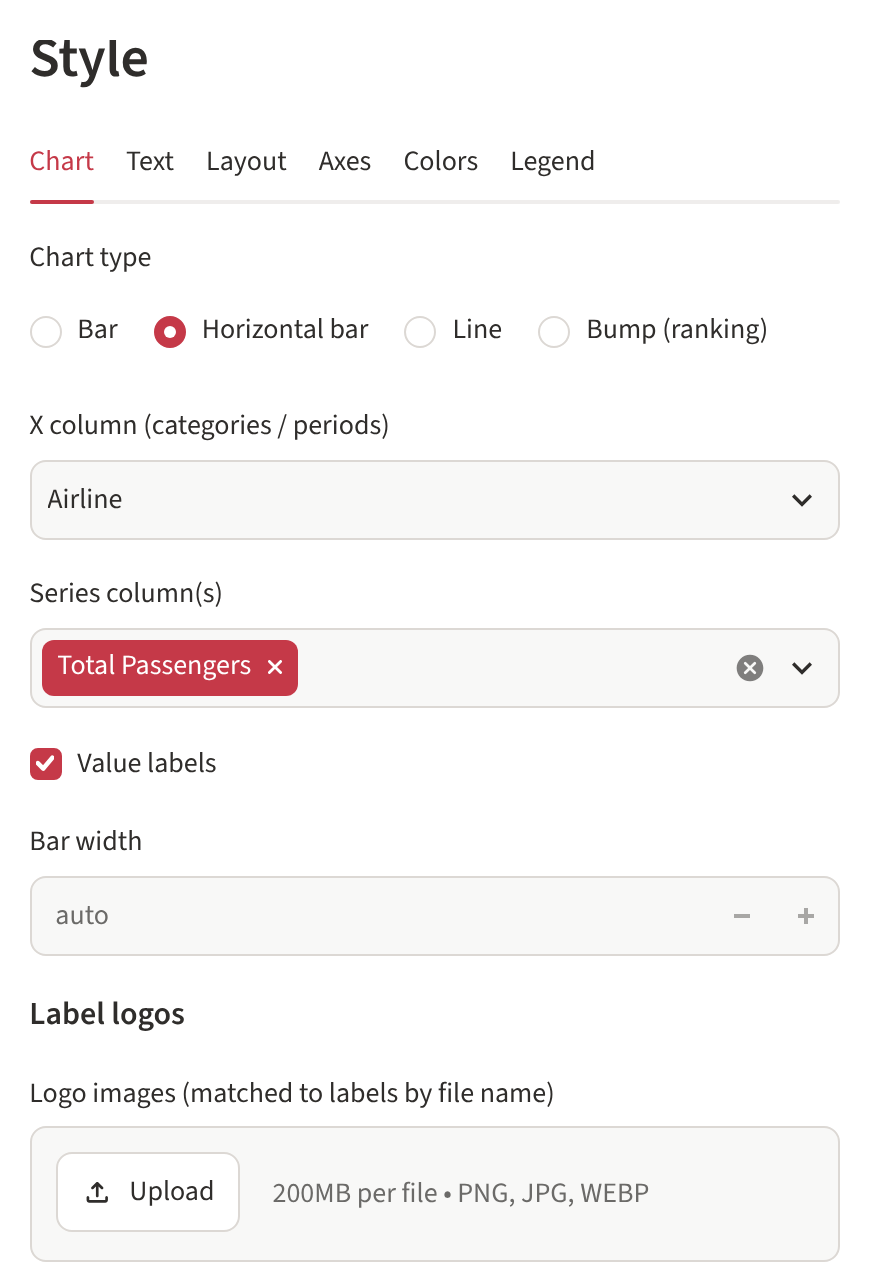
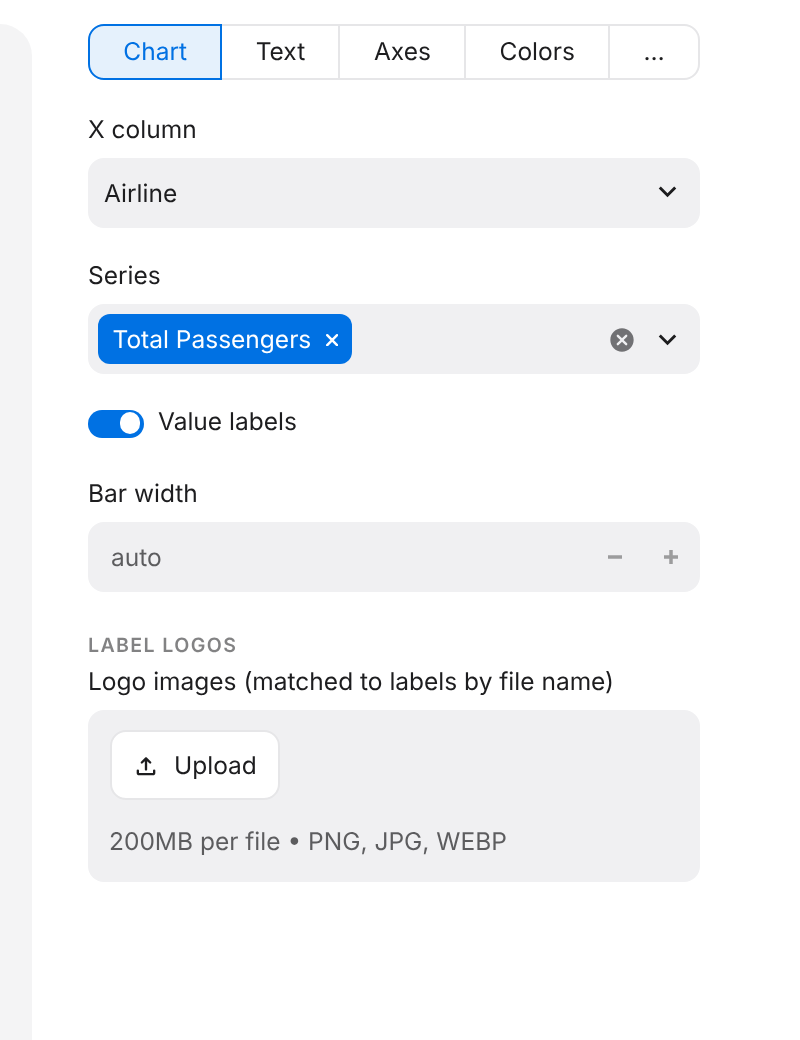
Update docs for the hand-held Chart Studio: guides, README, CLAUDE.md, screenshots
Claude-Session: https://claude.ai/code/session_01QkR6mK5n6DWnC9PeJK8sia

diff --git a/docs/guides/03-tweaks-and-fixes.md b/docs/guides/03-tweaks-and-fixes.md
@@ -9,30 +9,40 @@ and watch the chart.
 | I want to… | Where | What to do |
 |---|---|---|
 | Break the title onto two lines | Text | Press **Enter** inside **Title** |
-| Thin out crowded x-axis labels | Axes | Set **Most labels to show**, for example `5`, or set an **Label every…** |
+| Thin out crowded x-axis labels | Axes | Set **Most labels to show**, for example `5`, or set **Label every…** |
 | Label every year | Axes | **Label every…** `1` |
-| Show months as *Jan 24* | Axes | **Date style** → Custom, code `%b %y` (needs a date column) |
+| Show months as *Jan 24* | Axes | **Date style** → Custom, code `%b %y`. This needs a date column. The list shows what each style prints before you pick it |
 | Show years only on a monthly chart | Axes | **Date style** `Year` together with **Label every… years (line)** `1` |
 | Add a small tick between labels | Axes | **Small ticks between labels** `1` (for example, mid-year) |
 | Write `'21` instead of `2021` | Chart | Tick **Compact years** |
 | Tilt long x labels | Chart | **X label rotation**, for example `45` |
-| Cut or wrap long category names | Layout | **Max label width (chars)** plus **Long labels**: `wrap` or `truncate` |
-| Show values as `12%` | Axes | **Value format** `Percent`. The data must be fractions, so 0.12 shows as 12% |
-| Show values as `1,234.5` | Axes | **Value format** `Custom` with format string `{x:,.1f}` |
+| Cut or wrap long category names | … (Layout) | **Wrap labels after (characters)** plus **When a label is too long**: wrap or cut short |
+| Show values as `12%` | Axes | **Number style** → Percent. The data must be fractions, so 0.12 shows as 12% |
+| Show values as `1,234.5` | Axes | **Number style** → Custom, with `{x:,.1f}`. A line below shows the result, or says what's wrong |
 | Start the y-axis at zero, or fix its range | Axes | **Y min** and **Y max**. Fill in both, or neither |
 | Print numbers on the bars or points | Chart | Tick **Value labels** |
-| Hide the y-axis numbers and gridlines | Layout | Untick **Show y gridlines + labels**. This works well together with value labels |
-| Put y labels on the left | Layout | **Y-axis side** `left` |
-| Change all colours at once | Colors | **Theme** |
-| Give one series a fixed colour | Colors | Change that series from `auto` to a role or to **custom** |
+| Hide the y-axis numbers and gridlines | … (Layout) | Turn off **Show gridlines and y numbers**. This works well together with value labels |
+| Put y labels on the left | … (Layout) | **Y-axis side** `left` |
+| Change all colours at once | Colors | Click a **Theme** card. Each card is a small version of your own chart |
+| Give one series a fixed colour | Colors | Change that series from *Automatic* to a colour. The swatches show the theme's five colours |
 | Make one series fainter | Colors | Lower its **Opacity** |
-| Change the legend layout | Legend | **Legend columns** |
-| Remove or replace the footer logo | Layout | **Footer logo**: `Off`, or `Custom` and upload an image |
-| Remove the whole footer | Layout | Untick **Footer (rule, caption, logo)** |
-| Add space after the last data point | Layout | **Extra room on the right**, for example `0.05` for 5% of the data range |
+| Change the legend layout | … | **Legend columns** |
+| Remove or replace the footer logo | … (Layout) | **Footer logo**: `Off`, or `Custom` and upload an image |
+| Remove the whole footer | … (Layout) | Turn off **Footer (line, source caption, logo)** |
+| Add space after the last data point | … (Layout) | **Extra room on the right**, for example `0.05` for 5% of the data range |
 
 Any number box that shows **auto** works out a good value on its own. To go
 back to automatic, clear the box.
+
+<img src="images/studio_axes_tab.png" width="360" alt="Axes section with date styles listed with their results and a mini axis preview">
+
+The **Axes** section lists each date style with what it prints for your dates,
+and a small preview axis shows the labels your chart will get.
+
+**Why is there no Date style?** A date style only applies to a real date column.
+If your x values are names, or whole numbers such as the year `2024`, they print
+as they are, so the app doesn't offer one. To format dates, use a column of
+dates (write them as `2024-03-01` in a CSV file).
 
 ## Themes
 
@@ -51,13 +61,13 @@ The first series always gets the theme's **primary** colour, the second gets
 | What you see | Why | Fix |
 |---|---|---|
 | A red message on a reshape step | That step can't run. Usually a column it uses has disappeared, for example after a Group or Pivot. | Read the message. A column marked **⚠ (missing)** needs a new choice. The steps after it are skipped until you fix it. |
-| Strange totals such as `6066` for Year | A **Group** step added up the `Year` column too | In that step, choose **Value columns** explicitly |
+| Strange totals such as `6066` for Year | A **Group** step added up the `Year` column too | In that step, choose **Columns to combine** explicitly |
 | Bars or lines stacked on top of each other, wrong-looking chart | There are still several rows per x value | Add a **Group and total up** step, or a **Pivot** for one column per group |
 | Dates show as plain text labels | The column isn't stored as a date | In CSV files, write dates as `2024-03-01`. In Excel, format the cells as dates. |
 | "Series column(s) must be numeric" | A number column contains text, such as `n/a` or `1,234` | Clean the file, or filter those rows out |
 | "There is no data to plot" | A filter removed every row | Check the filter's spelling and capital letters. `=` must match exactly. |
 | The legend is missing | There's only one series. This is on purpose: the subtitle names it. | Add more series, or describe the one series in the subtitle |
-| Long names are cut off | The label is too long for the space | Shorten it with **Max label width**, or on bump charts use **Label text** with `\n` |
+| Long names are cut off | The label is too long for the space | Shorten it with **Wrap labels after (characters)**, or on bump charts use **Label text** with `\n` |
 | MMA **Fetch** fails | The token is missing, or the series number is wrong | Set `MMA_API_TOKEN` or put the token in `TOKEN.txt`, then check the series number |
 | The app is slow | The data is very large | Filter or group it early, near the top of the steps |
 

diff --git a/docs/guides/01-getting-started.md b/docs/guides/01-getting-started.md
@@ -39,37 +39,49 @@ To close the app, go back to the terminal and press `Ctrl + C`.
 
 ![Chart Studio with a finished chart](images/studio_overview.png)
 
-The screen has three panels:
+The screen has a toolbar and three panels:
 
-| Panel | What it's for |
+| Part | What it's for |
 |---|---|
-| **Data** (left) | Load your data, then tidy it with **reshape steps**. A table at the bottom shows the result. |
+| **Toolbar** (top) | Pick the **chart type** (Bar, H-bar, Line, Bump), and **Export PNG** or **Data .xlsx**. |
+| **Sidebar** (left) | A **progress checklist** that shows what to do next, then your data and the **reshape steps**. A table at the bottom shows the result. |
 | **Preview** (centre) | The chart, redrawn about half a second after every change. **What you see is exactly what you download.** |
-| **Style** (right) | Six tabs for everything else: **Chart** (type and columns), **Text**, **Layout**, **Axes**, **Colors**, **Legend**. |
+| **Inspector** (right) | One section at a time: **Chart** (columns and options), **Text**, **Axes**, **Colors**, and **…** (layout and legend). |
+
+**The checklist tells you what's next.** It lists *Data → Chart → Titles →
+Look → Export*. A green tick means a step is done, the blue number is your
+next step ("Next: add a title so readers know what they see"), and *Look* is
+optional. When everything required is done, *Export* says **Ready to export**.
+
+**Settings show you the result before you choose.** Where a setting needs a
+format (a date style, a number style), the options are listed with what they
+print from *your* data, so you pick by looking, not by remembering codes.
+Hover the **?** next to a setting for a short explanation.
 
 ## Step 4: Load the data
 
-1. Under **Source**, choose **Excel / CSV file**.
+1. Under **Source**, choose **File**.
 2. Drag `examples/data/airlines_sample.csv` into the upload box.
 
-The panel shows **42 rows × 4 columns loaded**. Each row is one airline in one
+The sidebar shows **42 rows × 4 cols** under the file name. Each row is one airline in one
 year, so Emirates appears three times: 2021, 2022 and 2023.
 
 > **Using MMA data instead?** Choose **MMA series**, type the series number and
-> click **Fetch**. The app uses the same token as your Python scripts (the
+> click **Fetch**. The app then shows the series name, how often it is
+> published and its unit, so you can check you got the right one. It uses the same token as your Python scripts (the
 > `MMA_API_TOKEN` setting or a `TOKEN.txt` file), and it never shows the token.
 
 ## Step 5: Shape the data with steps
 
 We want one bar per airline: its total international passengers, biggest
-first, top 10 only. That takes four steps. For each one, pick it in
-**Add step**, click **＋ Add**, then fill it in:
+first, top 10 only. That takes four steps. For each one, click
+**＋ Add step**, pick the step, then fill it in:
 
 | # | Step | Fill in | What it does |
 |---|---|---|---|
-| 1 | **Filter rows** | Column `Type`, Op `=`, Value `International` | Keeps only international flights |
+| 1 | **Filter rows** | Column `Type`, Condition `=`, Value `International` | Keeps only international flights |
 | 2 | **Group and total up** | Group by `Airline`, Combine values using `sum`, Columns to combine `Total Passengers` | Adds the three years together, giving one row per airline |
-| 3 | **Sort** | Column `Total Passengers`, leave **Ascending** unticked | Puts the biggest airline first |
+| 3 | **Sort** | Column `Total Passengers`, leave **Smallest first** off | Puts the biggest airline first |
 | 4 | **Keep the top rows** | How many rows to keep `10` | Keeps the first 10 rows |
 
 <img src="images/studio_data_panel.png" width="360" alt="The four reshape steps filled in">
@@ -77,24 +89,24 @@ first, top 10 only. That takes four steps. For each one, pick it in
 Under each step, a small note such as **→ 12 rows** tells you how many rows
 are left after it. The table at the bottom shows the final result.
 
-> **Tip:** In step 2, always choose **Value columns**. If you leave it empty,
+> **Tip:** In step 2, always choose **Columns to combine**. If you leave it empty,
 > the app adds up *every* number column, including `Year`, which gives you
 > nonsense values like 6066.
 
 ## Step 6: Choose the chart
 
-Open the **Chart** tab on the right.
+Open the **Chart** section on the right.
 
-1. **Chart type**: choose **Horizontal bar**. Long airline names are easier to read on the side.
+1. **Chart type** (in the toolbar): choose **H-bar**. Long airline names are easier to read on the side.
 2. **X column**: `Airline` (this is the category for each bar; the app usually picks it for you).
-3. **Series column(s)**: `Total Passengers`.
+3. **Series**: `Total Passengers`.
 4. Tick **Value labels** to print each number at the end of its bar.
 
 <img src="images/studio_chart_tab.png" width="360" alt="Chart tab settings">
 
 ## Step 7: Add words
 
-Open the **Text** tab:
+Open the **Text** section:
 
 - **Title**: `Top 10 airlines` then press **Enter** and type `by passengers`.
   Short two-line titles look best.
@@ -104,15 +116,15 @@ Open the **Text** tab:
 
 ## Step 8: Download
 
-Click **Download PNG** to get the finished 1080 × 1350 image, and
-**Download chart_data.xlsx** to get the numbers behind the chart.
+Click **Export PNG** in the toolbar to get the finished 1080 × 1350 image, and
+**Data .xlsx** to get the numbers behind the chart.
 
 You've made your first chart. 🎉
 
 ## Good to know
 
 - **Switching chart type keeps everything.** Try **Bar** or **Line** in the
-  Chart tab: your data, steps, title and colours all stay.
+  toolbar: your data, steps, title and colours all stay.
 - **Nothing is saved when you close the app.** Download what you need before
   you close it.
 - **If something goes wrong, the app tells you.** A red message appears on the

diff --git a/README.md b/README.md
@@ -127,8 +127,9 @@ df.to_excel("data.xlsx", index=False)
 ## Chart Studio (GUI, optional)
 
 A local, single-user app for going from raw data to a finished chart without
-writing code. See the [getting started guide](docs/guides/01-getting-started.md). It has three panels: **data + reshaping** on the left, a
-**live preview** in the centre, and **style tabs** on the right.
+writing code. See the [getting started guide](docs/guides/01-getting-started.md). A toolbar (chart type, export) sits on top of three panels:
+**checklist, data and reshaping** on the left, a **live preview** in the centre, and an
+**inspector** with one settings section at a time on the right.
 
 ```bash
 pip install -e ".[app]"
@@ -141,12 +142,17 @@ elegant-chart-studio            # or: python -m elegant_chart.app
   pivot (long → wide). You can add, edit, reorder or delete steps. If a step fails, the
   error shows on that step and the steps after it are skipped. No step is ever skipped
   silently.
-- **Style**: Chart / Text / Layout / Axes / Colors / Legend tabs cover the library's
+- **Style**: Chart / Text / Axes / Colors / … (layout and legend) cover the library's
   parameters. Switching between bar, horizontal bar, line and bump keeps the data,
   the steps and every shared setting.
+- **Hand-held by design**: a progress checklist (Data → Chart → Titles → Look → Export)
+  names the next step; an MMA fetch shows the series name, frequency and unit; settings
+  that take a format list their options *with the result from your data* (date style,
+  number style, theme cards drawn as mini charts, series colour swatches); every control
+  has plain wording and a short help line. Date styles appear only for real date columns.
 - **Preview** is drawn by the real matplotlib renderer at the canonical figsize. Only the
   `savefig` DPI is lower, so the preview and the export are the same image.
-- **Download** gives you the PNG (1080 × 1350 px, 500 DPI) and `chart_data.xlsx`.
+- **Export PNG** gives you the image (1080 × 1350 px, 500 DPI); **Data .xlsx** gives you `chart_data.xlsx`.
 
 The app is a thin layer over three library functions, which you can also use directly:
 
@@ -194,9 +200,12 @@ elegant_chart/
 │       ├── pipeline.py       ← apply_steps(): filter / group / sort / top N / pivot
 │       ├── sources.py        ← MMA series + CSV/Excel upload loaders
 │       ├── render.py         ← render(spec, df): routes the spec onto ElegantChart
-│       └── app/              ← Chart Studio (Streamlit GUI)
+│       └── app/              ← Chart Studio (Streamlit GUI); ux.py = pure preview/checklist helpers
 ├── tests/
-│   └── test_charts.py
+│   ├── test_charts.py
+│   ├── test_ux.py            ← Chart Studio preview/checklist helpers
+│   └── test_studio_app.py    ← Chart Studio app (Streamlit AppTest)
+├── .claude/hooks/            ← Stop hook: reminds to update docs after major src changes
 ├── .github/
 │   └── workflows/
 │       └── ci.yml

diff --git a/CLAUDE.md b/CLAUDE.md
@@ -46,3 +46,15 @@ Palettes are highly intentional and bounded by themes:
 - **Auto-Sizing**: Bar widths and spacing are auto-calculated based on data density (datetime vs categorical spacing).
 - **Compact Formatting**: Numbers are aggressively compacted (e.g., 1000 -> 1K) to preserve chart real estate.
 - **Value Labels**: Value labels are printed directly above bars or alongside lines (`zorder=5`) for immediate readability, eliminating the need for users to scan back to the y-axis.
+
+
+## 2. Chart Studio (GUI) UX Principles
+
+The Streamlit app (`src/elegant_chart/app/studio.py`) is for one person but must stay simple and hand-held.
+
+- **Show, don't describe**: a control that takes a format or code lists its options with the *result from the user's own data* (date style, number style, theme cards as mini charts, series colour swatches), with a custom option that previews as the user types. Bad input shows a plain message, never an error.
+- **Previews must be true**: they mirror what the renderer really does. A date style is offered only for real date columns, because the chart ignores a date format on whole numbers such as years.
+- **Plain wording**: labels say what they do ("Label every…", "Small ticks between labels"), each with a one-line help. `ChartSpec` field names do not change for UI wording.
+- **Guided flow**: a sidebar checklist (Data → Chart → Titles → Look → Export) names the next step; empty states and errors say how to fix the problem.
+- **Pure helpers**: logic behind previews and the checklist lives in `app/ux.py` with no Streamlit import, so it is unit-tested (`tests/test_ux.py`); app behaviour is covered with `AppTest` in `tests/test_studio_app.py`.
+- **Docs follow the UI**: when labels or sections change, update `docs/guides/` and the screenshots in `docs/guides/images/` (a Stop hook in `.claude/hooks/docs_check.py` reminds after major `src/` changes).

diff --git a/docs/guides/02-chart-recipes.md b/docs/guides/02-chart-recipes.md
@@ -1,7 +1,7 @@
 # 2. Chart recipes
 
 Five step-by-step recipes, one for each kind of chart. Every recipe starts the
-same way: open Chart Studio, choose **Excel / CSV file**, and upload the sample
+same way: open Chart Studio, choose **File**, and upload the sample
 file it names (from `examples/data/`).
 
 New to the app? Do [1. Getting started](01-getting-started.md) first.
@@ -30,7 +30,7 @@ so this is the short version.
 **Steps**
 1. Filter rows: `Type` `=` `International`
 2. Group and total up: by `Airline`, `sum`, value column `Total Passengers`
-3. Sort: `Total Passengers`, Ascending unticked
+3. Sort: `Total Passengers`, **Smallest first** off
 4. Keep the top rows: How many rows to keep `10`
 
 **Chart tab:** Horizontal bar · X column `Airline` · Series `Total Passengers` · ✅ Value labels
@@ -99,12 +99,12 @@ After the pivot, the table has the columns `Year`, `China`, `India` and
 
 **Chart tab:** Line · X column `Year` · Series: all three countries · ✅ Markers
 
-**Axes tab:** X tick step `1` puts a label on every year.
+**Axes tab:** **Label every…** `1` puts a label on every year.
 
 **Colors tab:** Theme `newsroom_muted`
 
 The legend appears on its own because there is more than one line. To change
-how many legend items sit side by side, use the **Legend** tab.
+how many legend items sit side by side, open the **…** section and set **Legend columns**.
 
 <br clear="right">
 
